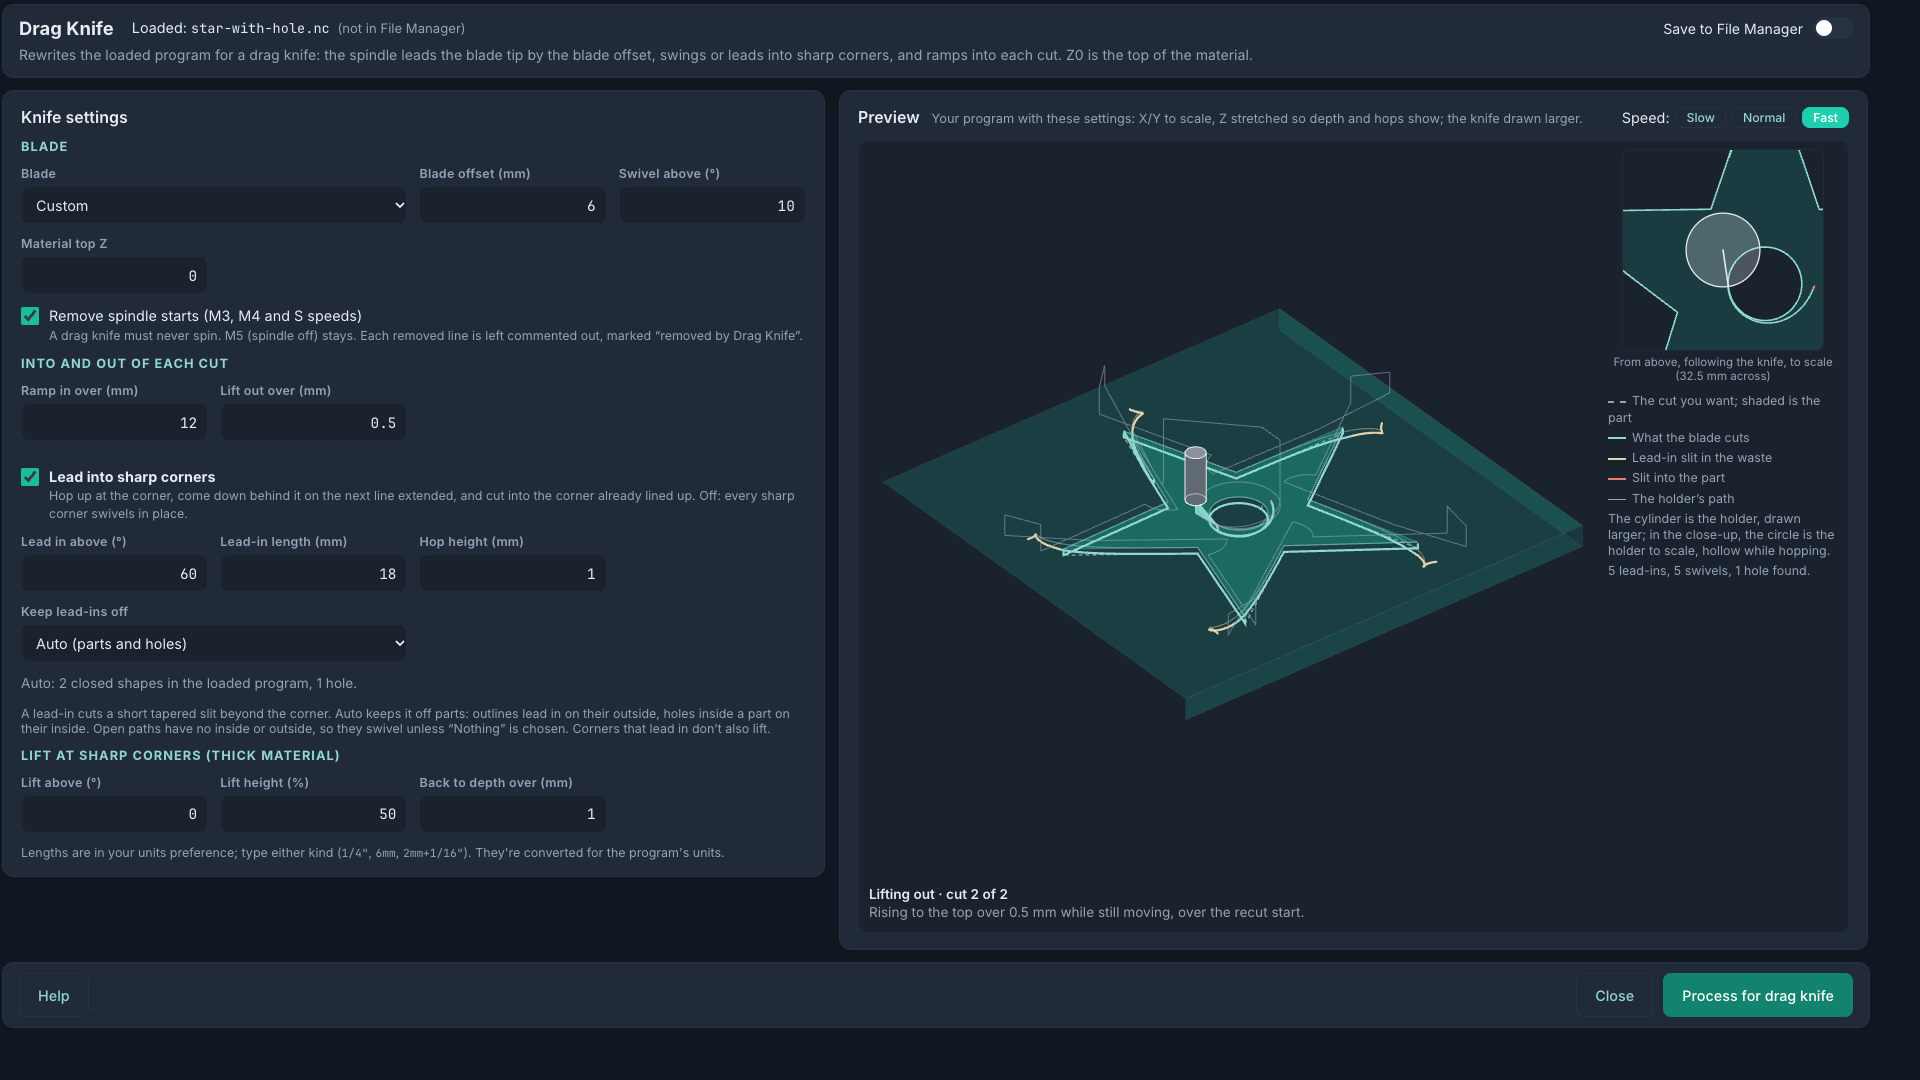
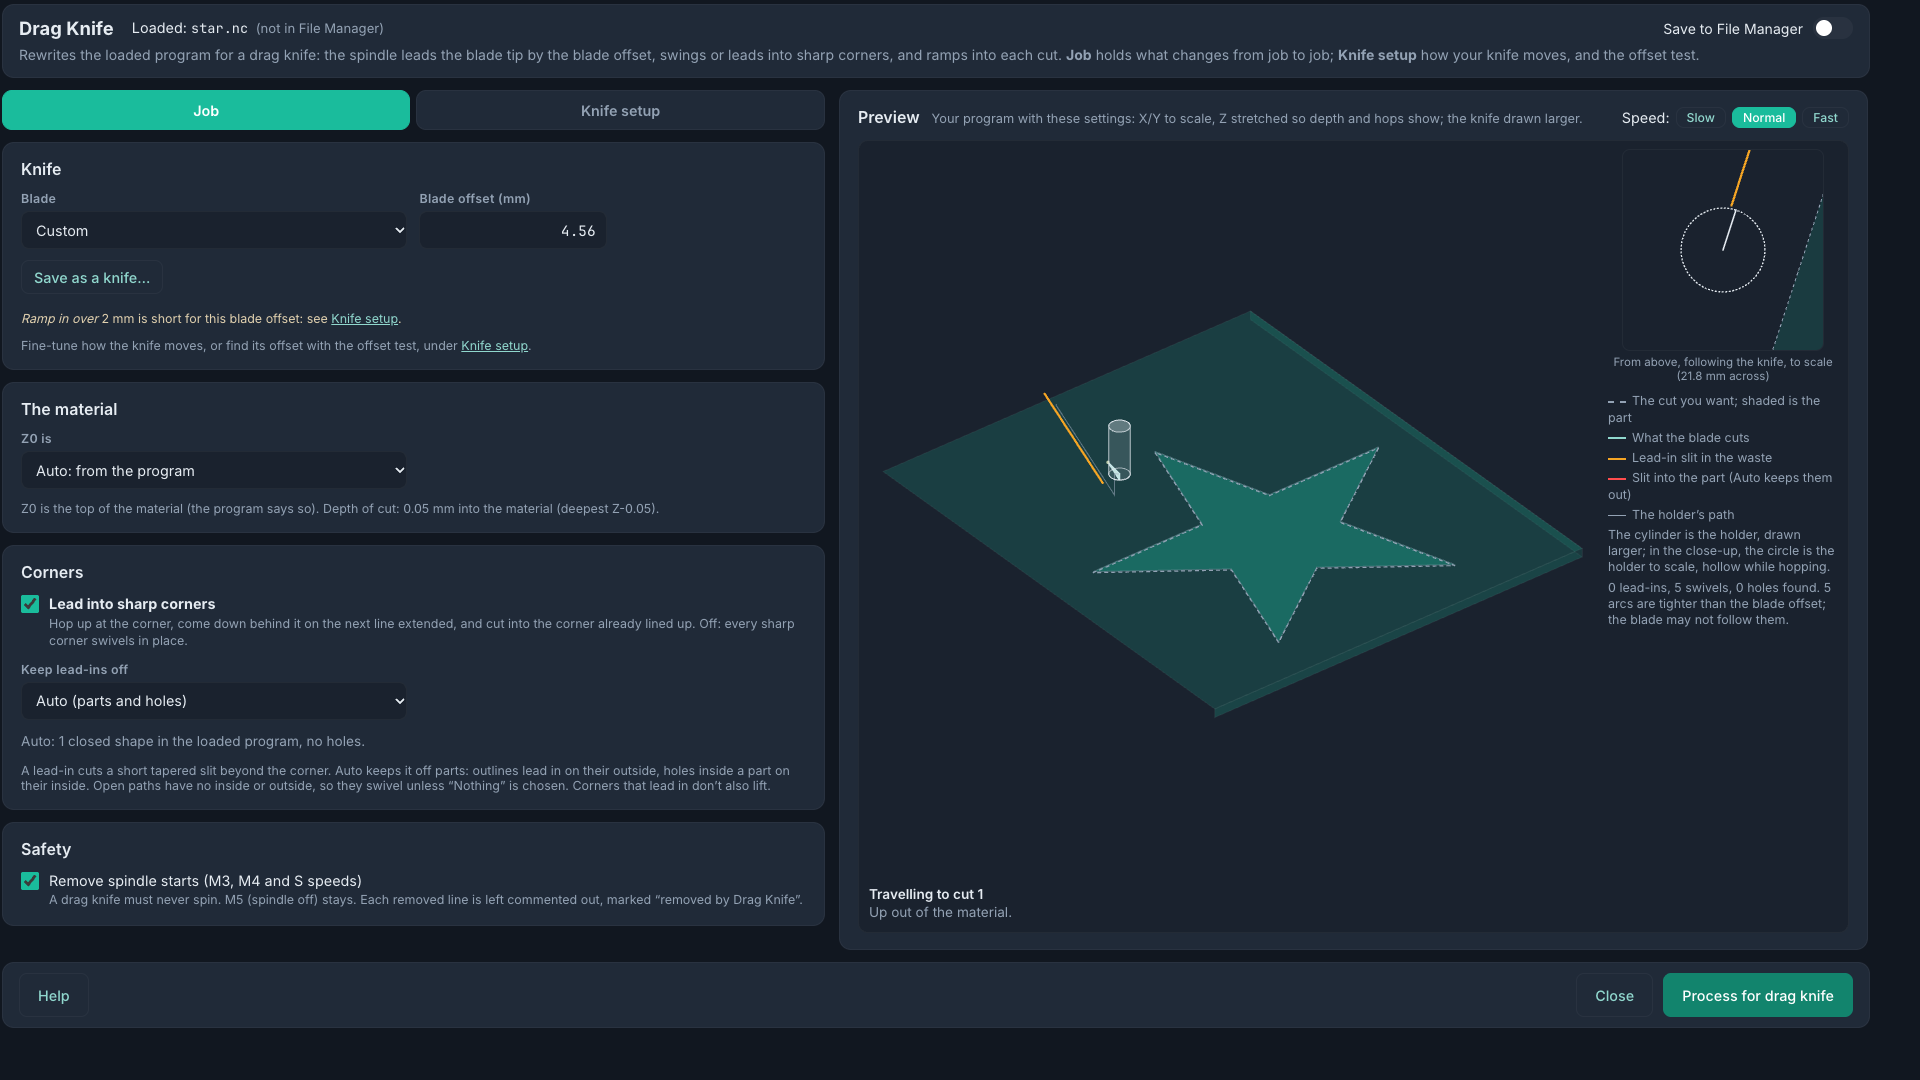
Settings on two pages of cards: Job and Knife setup
- Job (each time): Knife (Blade menu, Blade offset, Save as a knife),
  The material (Z0 is, thickness, depth of cut), Corners (Lead into
  sharp corners, Keep lead-ins off, the Auto box), Safety (Remove
  spindle starts).
- Knife setup (once per knife): Blade (Swivel above), Into and out of
  each cut (ramp, lift-out, turn, line-up, the length warning),
  Lead-ins at sharp corners, Lift at sharp corners, Offset test.
- Tabs at the top of the left column; links jump to Knife setup; a
  loaded offset test opens it; the short-length warning shows on Job
  too. The lead-in switch greys the lead-in fields and Keep lead-ins
  off. Same element ids, so the code is unchanged otherwise.
- README: the pages and a new dialog screenshot.

diff --git a/config.html b/config.html
@@ -140,6 +140,14 @@
   .dk-test-tiles .dk-btn[aria-pressed="true"] { background: var(--color-accent) !important; color: var(--color-accent-text, #fff) !important; border-color: var(--color-accent) !important; }
   .dk-warn-text { color: var(--dk-warn); }
   .dk-warn-text .dk-btn { min-height: 34px; padding: 4px 12px !important; margin-top: 6px; }
+  /* Two pages of cards on the left: the job (each time) and the knife's setup (once per knife). */
+  .dk-pages { display: flex; gap: 6px; flex: none; }
+  .dk-page-tab { -webkit-appearance: none; appearance: none; flex: 1 1 0; min-height: 40px; padding: 6px 14px !important; border-radius: 10px; cursor: pointer;
+    font: inherit; font-weight: 600 !important; background: var(--color-surface-muted) !important; color: var(--color-text-secondary) !important; border: 1px solid var(--color-border) !important; }
+  .dk-page-tab[aria-selected="true"] { background: var(--color-accent) !important; color: var(--color-accent-text, #fff) !important; border-color: var(--color-accent) !important; }
+  .dk-page { display: flex; flex-direction: column; gap: 12px; }
+  .dk-page[hidden] { display: none; }
+  .dk-link { color: var(--dk-accent-text); text-decoration: underline; cursor: pointer; }
   .dk-knife-row { display: flex; flex-wrap: wrap; gap: 8px; align-items: center; margin-top: 6px; }
   .dk-knife-row .dk-btn { min-height: 34px; padding: 4px 12px !important; }
   .dk-knife-row .dk-input { flex: 1 1 180px; min-width: 0; }
@@ -159,13 +167,17 @@
         <span>Save to File Manager</span><input type="checkbox" id="dk-saveFiles" role="switch"><span class="dk-switch-track" aria-hidden="true"></span></label>
     </div>
     <p class="dk-note">Rewrites the loaded program for a drag knife: the spindle leads the blade tip by the blade offset,
-      swings or leads into sharp corners, and ramps into each cut. Z0 is the top of the material.</p>
+      swings or leads into sharp corners, and ramps into each cut. <b>Job</b> holds what changes from job to job; <b>Knife setup</b> how your knife moves, and the offset test.</p>
   </header>
   <div class="dk-body">
     <div class="dk-col">
+    <div class="dk-pages" role="tablist" aria-label="Settings pages">
+      <button type="button" class="dk-page-tab" role="tab" data-page="job" aria-selected="true">Job</button>
+      <button type="button" class="dk-page-tab" role="tab" data-page="setup" aria-selected="false">Knife setup</button>
+    </div>
+    <div class="dk-page" id="dk-page-job" role="tabpanel">
 <section class="dk-card">
-    <h3 class="dk-card-title">Knife settings</h3>
-    <div class="dk-sub">Blade</div>
+    <h3 class="dk-card-title">Knife</h3>
     <div class="dk-grid">
       <div class="dk-field" style="grid-column: span 2"><label for="dk-blade">Blade</label>
         <select class="dk-input" id="dk-blade" title="Sets the blade offset, and the lead-in and ramp lengths that suit it. Values are the usual ones for these blades; check yours (your holder's maker may give a different offset).">
@@ -187,11 +199,14 @@
         </div>
         <div class="dk-hint" id="dk-knife-said" aria-live="polite"></div></div>
       <div class="dk-field"><label for="dk-offset">Blade offset (<span class="dk-unit">mm</span>)</label><input class="dk-input" id="dk-offset" type="text" data-unit="length" data-min="0" inputmode="decimal"
-        title="How far the blade tip trails behind the center of the holder. About 0.25 mm for a 45° blade and 0.5 mm for a 60° blade; the right value gives the sharpest corners."></div>
-      <div class="dk-field"><label for="dk-swivelAngle">Swivel above (°)</label><input class="dk-input" id="dk-swivelAngle" inputmode="decimal"
-        title="Turns sharper than this get a swivel: the holder swings around the corner so the tip turns in place. Gentler turns are left to drag."></div>
+        title="How far the blade tip trails behind the center of the holder. About 0.25 mm for a 45° blade and 0.5 mm for a 60° blade; the right value gives the sharpest corners.">
+</div>
     </div>
-    <div class="dk-sub">The material</div>
+    <div class="dk-hint dk-warn-text" id="dk-setup-warn" hidden></div>
+    <div class="dk-hint">Fine-tune how the knife moves, or find its offset with the offset test, under <a href="#" class="dk-link" data-goto="setup">Knife setup</a>.</div>
+  </section>
+<section class="dk-card">
+    <h3 class="dk-card-title">The material</h3>
     <div class="dk-grid">
       <div class="dk-field" style="grid-column: span 2"><label for="dk-zZero">Z0 is</label>
         <select class="dk-input" id="dk-zZero" title="Where the loaded program's Z0 is. Auto reads the program's own note (QuickCut writes “Z0: the top of the stock”); without one, a program that never cuts below Z0 is taken as Z0 on the bed.">
@@ -206,10 +221,42 @@
         title="In the program's units. Moves below this are cuts."></div>
     </div>
     <div class="dk-hint" id="dk-z-say" aria-live="polite"></div>
+  </section>
+<section class="dk-card">
+    <h3 class="dk-card-title">Corners</h3>
+    <label class="dk-check"><input type="checkbox" id="dk-leadIn">
+      <span><b>Lead into sharp corners</b><span class="dk-hint" style="display:block">Hop up at the corner, come down behind it on the next line extended, and cut into the corner already lined up. Off: every sharp corner swivels in place.</span></span></label>
+    <div class="dk-grid" id="dk-protect-fields">
+      <div class="dk-field" style="grid-column: span 2"><label for="dk-protect">Keep lead-ins off</label>
+        <select class="dk-input" id="dk-protect" title="A lead-in cuts a short tapered slit on the next line extended past the corner: outside the shape at outside corners, into it at inside (notch) corners. Choose the side that's your part; corners whose lead-in would cut it swivel instead. Auto treats a shape inside another as a hole (and a shape inside a hole as a part again).">
+          <option value="auto">Auto (parts and holes)</option>
+          <option value="inside">Inside of shapes (parts)</option>
+          <option value="outside">Outside of shapes (holes)</option>
+          <option value="none">Nothing (every corner)</option>
+        </select></div>
+    </div>
+    <div class="dk-auto" id="dk-auto" hidden aria-live="polite"></div>
+    <div class="dk-hint">A lead-in cuts a short tapered slit beyond the corner. Auto keeps it off parts: outlines lead in on their outside, holes inside a part on their inside. Open paths have no inside or outside, so they swivel unless “Nothing” is chosen. Corners that lead in don’t also lift.</div>
+  </section>
+<section class="dk-card">
+    <h3 class="dk-card-title">Safety</h3>
     <label class="dk-check"><input type="checkbox" id="dk-stripSpindle">
       <span>Remove spindle starts (M3, M4 and S speeds)<span class="dk-hint" style="display:block">A drag knife must never spin. M5 (spindle off) stays. Each removed line is left commented out, marked “removed by Drag Knife”.</span>
       <span class="dk-hint dk-danger-text" id="dk-spindle-warn" style="display:block" hidden>Off: M3, M4 and S stay in the program, so the spindle can start with the knife in it. Turn this back on unless the spindle is disconnected.</span></span></label>
-    <div class="dk-sub">Into and out of each cut</div>
+  </section>
+    </div>
+    <div class="dk-page" id="dk-page-setup" role="tabpanel" hidden>
+<section class="dk-card">
+    <h3 class="dk-card-title">Blade</h3>
+    <div class="dk-hint">These settings belong to the knife: set them once, then keep them with <b>Save as a knife…</b> on the Job page.</div>
+    <div class="dk-grid">
+      <div class="dk-field"><label for="dk-swivelAngle">Swivel above (°)</label><input class="dk-input" id="dk-swivelAngle" inputmode="decimal"
+        title="Turns sharper than this get a swivel: the holder swings around the corner so the tip turns in place. Gentler turns are left to drag."></div>
+    </div>
+    <div class="dk-hint">Lengths are in your units preference; type either kind (<code>1/4"</code>, <code>6mm</code>, <code>2mm+1/16"</code>). They're converted for the program's units.</div>
+  </section>
+<section class="dk-card">
+    <h3 class="dk-card-title">Into and out of each cut</h3>
     <div class="dk-grid">
       <div class="dk-field"><label for="dk-rampLength">Ramp in over (<span class="dk-unit">mm</span>)</label><input class="dk-input" id="dk-rampLength" type="text" data-unit="length" data-min="0" inputmode="decimal"
         title="Each cut starts at the material top and reaches full depth over this distance along the path, so the blade lines up while shallow. Closed shapes recut this stretch at full depth at the end. 0 plunges straight down."></div>
@@ -223,8 +270,10 @@
     <label class="dk-check"><input type="checkbox" id="dk-lineUp">
       <span><b>Line up the blade before the first cut</b><span class="dk-hint" style="display:block">Before the program&rsquo;s first cut, the blade drags a short shallow line (5 offsets) in the waste beside the start, so it&rsquo;s lined up wherever the last job left it and the start mark lands in the waste. Only where there&rsquo;s clear room: outside a part, inside a hole, not past X0 or Y0.</span></span></label>
     <div class="dk-hint dk-warn-text" id="dk-lengths-warn" hidden aria-live="polite"></div>
-    <label class="dk-check dk-sub-check"><input type="checkbox" id="dk-leadIn">
-      <span><b>Lead into sharp corners</b><span class="dk-hint" style="display:block">Hop up at the corner, come down behind it on the next line extended, and cut into the corner already lined up. Off: every sharp corner swivels in place.</span></span></label>
+  </section>
+<section class="dk-card">
+    <h3 class="dk-card-title">Lead-ins at sharp corners</h3>
+    <div class="dk-hint">Used when <b>Lead into sharp corners</b> is on (Job page, Corners).</div>
     <div class="dk-grid" id="dk-leadIn-fields">
       <div class="dk-field"><label for="dk-leadInAngle">Lead in above (°)</label><input class="dk-input" id="dk-leadInAngle" inputmode="decimal"
         title="Turns sharper than this hop up and come back down behind the corner, on the next line extended, then cut into the corner along it, so the blade is already lined up when the cut begins. 0 turns them off too."></div>
@@ -232,17 +281,10 @@
         title="How far behind the corner the lead-in starts. The blade ramps from the material top to full depth over this, so it lines up while shallow. A few times the blade offset."></div>
       <div class="dk-field"><label for="dk-hopHeight">Hop height (<span class="dk-unit">mm</span>)</label><input class="dk-input" id="dk-hopHeight" type="text" data-unit="length" data-min="0" inputmode="decimal"
         title="How high above the material top the blade travels from the corner to the lead-in start."></div>
-      <div class="dk-field" style="grid-column: span 2"><label for="dk-protect">Keep lead-ins off</label>
-        <select class="dk-input" id="dk-protect" title="A lead-in cuts a short tapered slit on the next line extended past the corner: outside the shape at outside corners, into it at inside (notch) corners. Choose the side that's your part; corners whose lead-in would cut it swivel instead. Auto treats a shape inside another as a hole (and a shape inside a hole as a part again).">
-          <option value="auto">Auto (parts and holes)</option>
-          <option value="inside">Inside of shapes (parts)</option>
-          <option value="outside">Outside of shapes (holes)</option>
-          <option value="none">Nothing (every corner)</option>
-        </select></div>
     </div>
-    <div class="dk-auto" id="dk-auto" hidden aria-live="polite"></div>
-    <div class="dk-hint">A lead-in cuts a short tapered slit beyond the corner. Auto keeps it off parts: outlines lead in on their outside, holes inside a part on their inside. Open paths have no inside or outside, so they swivel unless “Nothing” is chosen. Corners that lead in don’t also lift.</div>
-    <div class="dk-sub">Lift at sharp corners (thick material)</div>
+  </section>
+<section class="dk-card">
+    <h3 class="dk-card-title">Lift at sharp corners (thick material)</h3>
     <div class="dk-grid">
       <div class="dk-field"><label for="dk-liftAngle">Lift above (°)</label><input class="dk-input" id="dk-liftAngle" inputmode="decimal"
         title="Turns sharper than this rise partway during the swivel, so the blade turns with less drag, then ramp back to depth. 0 turns it off (best for thin vinyl and paper)."></div>
@@ -251,7 +293,6 @@
       <div class="dk-field"><label for="dk-liftRamp">Back to depth over (<span class="dk-unit">mm</span>)</label><input class="dk-input" id="dk-liftRamp" type="text" data-unit="length" data-min="0" inputmode="decimal"
         title="After a lifted swivel, the distance over which the blade goes back to full depth."></div>
     </div>
-    <div class="dk-hint">Lengths are in your units preference; type either kind (<code>1/4"</code>, <code>6mm</code>, <code>2mm+1/16"</code>). They're converted for the program's units.</div>
   </section>
 <section class="dk-card dk-test-card">
     <details id="dk-test">
@@ -282,6 +323,7 @@
       </div>
     </details>
   </section>
+    </div>
     </div>
     <div class="dk-col dk-views">
       <section class="dk-card dk-view">
@@ -1957,6 +1999,9 @@ if (typeof module !== 'undefined' && module.exports) module.exports = DragKnife;
     if (o > 0 && cfg.rampLength < o) short.push('<i>Ramp in over</i> ' + esc(lengthSay(cfg.rampLength)));
     if (o > 0 && cfg.leadIn && cfg.leadInLength < 2 * o) short.push('<i>Lead-in length</i> ' + esc(lengthSay(cfg.leadInLength)));
     box.hidden = !short.length;
+    var jobWarn = $('dk-setup-warn');
+    jobWarn.hidden = !short.length;
+    jobWarn.innerHTML = short.length ? short.join(' and ') + (short.length > 1 ? ' are' : ' is') + ' short for this blade offset: see <a href="#" class="dk-link" data-goto="setup">Knife setup</a>.' : '';
     if (!short.length) { box.innerHTML = ''; return; }
     box.innerHTML = 'For a ' + esc(lengthSay(o)) + ' blade offset, ' + short.join(' and ') + (short.length > 1 ? ' are' : ' is') +
       ' short: the blade needs about 2 to 3 offsets of travel to line up. ' +
@@ -1969,10 +2014,23 @@ if (typeof module !== 'undefined' && module.exports) module.exports = DragKnife;
   var leadIn = $('dk-leadIn');
   leadIn.checked = !!cfg.leadIn;
   function leadInShown() {
-    var box = $('dk-leadIn-fields');
-    box.classList.toggle('dk-off', !cfg.leadIn);
-    box.querySelectorAll('input, select').forEach(function(e) { e.disabled = !cfg.leadIn; });
+    ['dk-leadIn-fields', 'dk-protect-fields'].forEach(function(id) {
+      var box = $(id);
+      box.classList.toggle('dk-off', !cfg.leadIn);
+      box.querySelectorAll('input, select').forEach(function(e) { e.disabled = !cfg.leadIn; });
+    });
   }
+  // The two pages: Job (each time) and Knife setup (once per knife, and the offset test).
+  function showPage(name) {
+    ROOT.querySelectorAll('.dk-page-tab').forEach(function(t) { t.setAttribute('aria-selected', t.getAttribute('data-page') === name ? 'true' : 'false'); });
+    $('dk-page-job').hidden = name !== 'job';
+    $('dk-page-setup').hidden = name !== 'setup';
+  }
+  ROOT.querySelectorAll('.dk-page-tab').forEach(function(t) { t.addEventListener('click', function() { showPage(t.getAttribute('data-page')); }); });
+  ROOT.addEventListener('click', function(e) {
+    var a = e.target.closest && e.target.closest('[data-goto]');
+    if (a) { e.preventDefault(); showPage(a.getAttribute('data-goto')); }
+  });
   leadInShown();
   leadIn.addEventListener('change', function() {
     cfg.leadIn = leadIn.checked;
@@ -2117,8 +2175,9 @@ if (typeof module !== 'undefined' && module.exports) module.exports = DragKnife;
     if (p.processed && p.cur && DragKnife.isOffsetTest(p.cur)) {
       btn.textContent = 'Offset test loaded';
       btn.disabled = true;
-      said.textContent = ' (the offset test: cut it, then pick the best tile under Offset test)';
+      said.textContent = ' (the offset test: cut it, then pick the best tile under Knife setup › Offset test)';
       $('dk-test').open = true;
+      showPage('setup');
       return;
     }
     if (p.processed) {

diff --git a/CHANGELOG.md b/CHANGELOG.md
@@ -2,6 +2,7 @@
 
 ## Unreleased
 
+- **Two pages of cards**, like QuickCut's: **Job** (Knife, The material, Corners, Safety) for each time, and **Knife setup** (Blade, Into and out of each cut, Lead-ins, Lift at sharp corners, Offset test) for once per knife. A loaded offset test opens Knife setup; a short-length warning shows on Job too.
 - **Z0 is** (under *The material*): Auto (from the program's note, else its heights), the top of the material, the bed (with **Material thickness**), or Other (the old **Material top Z**, kept for settings that set it). A line under it shows the **depth of cut** from the loaded program, and how far above the bed, with warnings when nothing cuts below the top or a cut goes into the bed. A program with Z0 on the bed and no thickness is refused with a message instead of processed wrongly.
 - **Line up the blade before the first cut** (on): the program's first cut, its blade direction unknown, used to leave a start mark up to an offset long, inside the part or outside depending on where the last job left the blade (a star: up to 5.9 mm inside). Now the blade first drags a short shallow line in clear waste beside the start; on that star the worst start mark is 0.4 mm, at the very top of the ramp.
 - Shapes that start with the knife touching the top (QuickCut comes down to Z0 first) now lift by **Hop height** before moving over, so **Turn the blade in place before each cut** works on them too (it didn't on QuickCut programs).

diff --git a/README.md b/README.md
@@ -76,8 +76,16 @@ the bed.
 
 ## The dialog
 
-![The Drag Knife dialog: knife settings on the left; on the right a 3D preview of a star with a hole being cut, with a
-close-up from above that follows the knife, the legend and what's happening now](docs/images/dialog.png)
+![The Drag Knife dialog: the Job page's cards on the left (Knife, The material, Corners, Safety); on the right a 3D
+preview of a star being cut, with a close-up from above that follows the knife, the legend and what's happening
+now](docs/images/dialog.png)
+
+The settings are on two pages of cards. **Job** holds what you check each time: **Knife** (the **Blade** menu with your
+saved knives, **Blade offset**, **Save as a knife…**), **The material** (**Z0 is** and the depth of cut), **Corners**
+(**Lead into sharp corners**, **Keep lead-ins off**) and **Safety** (**Remove spindle starts**). **Knife setup** holds
+what you set once per knife: **Blade** (**Swivel above**), **Into and out of each cut** (ramp, lift-out, the turn and
+the line-up), **Lead-ins at sharp corners**, **Lift at sharp corners** and the **Offset test**. A warning on the Job
+page points to Knife setup when a length there is too short for the blade offset.
 
 The preview runs your loaded program through the processor with your settings while you change them: in 3D (X/Y to
 scale, Z stretched so hops show), with a close-up from above that follows the knife, and captions from your numbers
